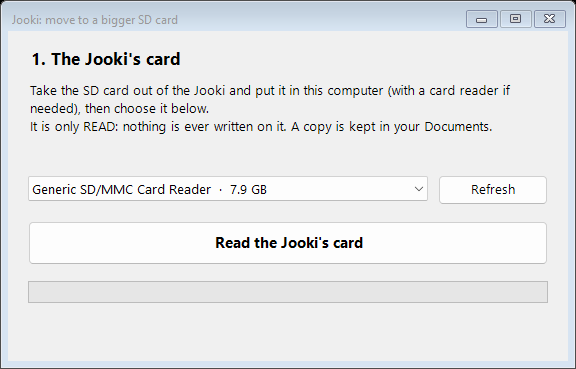
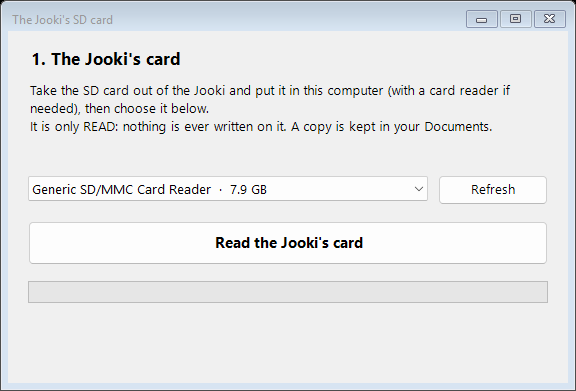
A brand-new Jooki finds its way, and the original card is described right
- README, install guide, Questions, installer page and Wi-Fi page: a brand-new (or
  second-hand) Jooki that was never on the family's Wi-Fi gets it from the Wi-Fi page, then
  installs OpenJooki; no old app, no need to open it (the reporter of #8 opened his for
  lack of this).
- The original card: the tools (Windows window, Mac page), sdcard.html, the Questions and
  docs/27 said the original program could no longer be set up from a phone. The old official
  app is no longer maintained but still works on some phones: said so now.
- The SD card tool's window is called "The Jooki's SD card" (it said "move to a bigger SD card"
  whatever the choice); docs screenshots redrawn; Mac app rebuilt.
- CHANGELOG: SD card tools (28 October 2026), with the fixes of #8 and #7.

Checked: the Mac page script parses (node --check) and shows the new text in Chromium, in
English and French, light and dark, with no page error; the Windows window drawn in English
and French, text within its frame; the card selection tests still pass; the zip holds the
current jooki_sd.py.

diff --git a/docs/wifi.html b/docs/wifi.html
@@ -4,7 +4,7 @@
 <meta charset="utf-8">
 <meta name="viewport" content="width=device-width, initial-scale=1">
 <title>OpenJooki · connect to Wi-Fi</title>
-<meta name="description" content="Moved house, new box, new password? Give your Jooki its Wi-Fi network over Bluetooth, from a phone or a computer. Nothing to install.">
+<meta name="description" content="Brand-new Jooki, moved house, new box, new password? Give your Jooki its Wi-Fi network over Bluetooth, from a phone or a computer. Nothing to install.">
 <style>
   :root{--bg:#fffbf6;--fg:#222;--muted:#888;--accent:#f26b21;--card:#fff;--line:#eee;--ok:#188a3a;--okbg:#e8f6ec;--bad:#c0392b;--badbg:#fbeaea}
   @media (prefers-color-scheme:dark){:root{--bg:#161514;--fg:#eee;--muted:#9a9a9a;--card:#201e1c;--line:#333;--okbg:#12301c;--badbg:#3a1a1a}}
@@ -54,7 +54,7 @@
 <body>
 <main>
   <h1>Connect the Jooki to Wi-Fi</h1>
-  <p class="sub">Moved house, new internet box, new Wi-Fi password? The Jooki only learnt its network from the old app. This page gives it a new one over Bluetooth, from an Android phone or a computer. Nothing to install. (Not from an iPhone: see below.)</p>
+  <p class="sub">A brand-new Jooki, a move, a new internet box, a new Wi-Fi password? The Jooki only learnt its network from the old app. This page gives it a new one over Bluetooth, from an Android phone or a computer. Nothing to install. (Not from an iPhone: see below.)</p>
 
   <div class="card bad" id="nobt" hidden>
     <b>This page cannot reach the Jooki from here.</b>

diff --git a/docs/sdcard.html b/docs/sdcard.html
@@ -67,9 +67,9 @@
     <li>Put a micro SD card of 4 GB or more in the computer, choose it, confirm, wait about ten
       minutes, then put it in the Jooki.</li>
   </ol>
-  <p>Good to know: the official app and Jooki's servers are gone, so the original program can
-    no longer be set up from a phone. To come back to OpenJooki, put the Jooki's own card back,
-    or install OpenJooki again. Details: <a href="https://github.com/Guillain-RDCDE/OpenJooki/blob/main/docs/27-original-card.md">docs/27-original-card.md</a>.</p>
+  <p>Good to know: the original program is set up only from the old official app, which is no
+    longer maintained: it still works on some phones, not on others. To come back to OpenJooki,
+    put the Jooki's own card back, or install OpenJooki again. Details: <a href="https://github.com/Guillain-RDCDE/OpenJooki/blob/main/docs/27-original-card.md">docs/27-original-card.md</a>.</p>
 
   <h2 id="bigger">More room for music: a bigger card</h2>
   <ol>

diff --git a/docs/index.html b/docs/index.html
@@ -74,7 +74,7 @@
     <a class="btn ghost" href="sdcard.html">My Jooki no longer starts: a new SD card</a>
     <p class="tiny">Side dots dark, reset does nothing: the memory card is dead. Ten minutes with a computer. Same tool for a bigger card, or to go back to the original Jooki.</p>
 
-    <a class="btn ghost" href="wifi.html">My Jooki lost its Wi-Fi: moved house, new box, new password</a>
+    <a class="btn ghost" href="wifi.html">My Jooki is not on our Wi-Fi: brand new, moved house, new box, new password</a>
     <p class="tiny">Two minutes with an <b>Android phone</b> or a <b>computer</b> (Windows, Mac, Linux), in Chrome.<br>
       <b>Not from an iPhone or iPad</b>: Apple does not let any web page use Bluetooth, and the Jooki only listens over Bluetooth when it has no Wi-Fi. Borrow an Android phone or use a computer, once.</p>
   </div>

diff --git a/tools/sdcard/jooki_sd.py b/tools/sdcard/jooki_sd.py
@@ -532,7 +532,7 @@ def main(argv=None):
 
 # ------------------------------------------------------------------ the local web page (the Mac app's window)
 PAGE = r"""<!doctype html><html><head><meta charset="utf-8"><meta name="viewport" content="width=device-width, initial-scale=1">
-<title>Jooki: a bigger SD card</title><style>
+<title>The Jooki's SD card</title><style>
 :root{--bg:#fffbf6;--fg:#222;--muted:#888;--accent:#f26b21;--card:#fff;--line:#e8e2da}
 @media (prefers-color-scheme:dark){:root{--bg:#161514;--fg:#eee;--muted:#9a9a9a;--card:#201e1c;--line:#333}}
 *{box-sizing:border-box}body{margin:0;font:17px/1.5 -apple-system,Segoe UI,Roboto,sans-serif;background:var(--bg);color:var(--fg);padding:0 20px 40px}
@@ -548,7 +548,7 @@ var TOKEN=%TOKEN%, fr=(navigator.language||'').slice(0,2)=='fr';
 var T={t0:['Your Jooki','Ton Jooki'],x0:['What do you want to do?','Que veux-tu faire ?'],
 g0:['A bigger card: more room for music','Une carte plus grande : plus de place pour la musique'],h0:['A new card: my Jooki does not start any more','Une carte neuve : mon Jooki ne démarre plus'],
 o0:['The original Jooki: back to the program it was sold with','Le Jooki d\'origine : revenir au programme d\'usine'],
-to1:['The original Jooki','Le Jooki d\'origine'],xo1:['This card holds the Jooki exactly as it was sold (its program of December 2022), without OpenJooki. Put a micro SD card (4 GB or more) in this computer, then choose it below: everything on it will be erased. Keep the Jooki\'s own card safe: it is your way back to OpenJooki and your music. Note: the official app and Jooki\'s servers are gone, so the original program can no longer be managed from a phone.','Cette carte contient le Jooki exactement tel qu\'il était vendu (son programme de décembre 2022), sans OpenJooki. Mets une carte micro SD (4 Go ou plus) dans cet ordinateur, puis choisis-la ci-dessous : tout ce qui est dessus sera effacé. Garde précieusement la carte du Jooki : c\'est ton retour vers OpenJooki et ta musique. À savoir : l\'appli officielle et les serveurs de Jooki n\'existent plus, le programme d\'origine ne peut donc plus être réglé depuis un téléphone.'],
+to1:['The original Jooki','Le Jooki d\'origine'],xo1:['This card holds the Jooki exactly as it was sold (its program of December 2022), without OpenJooki. Put a micro SD card (4 GB or more) in this computer, then choose it below: everything on it will be erased. Keep the Jooki\'s own card safe: it is your way back to OpenJooki and your music. Note: the original program is set up only from the old official app, which is no longer maintained: it still works on some phones, not on others.','Cette carte contient le Jooki exactement tel qu\'il était vendu (son programme de décembre 2022), sans OpenJooki. Mets une carte micro SD (4 Go ou plus) dans cet ordinateur, puis choisis-la ci-dessous : tout ce qui est dessus sera effacé. Garde précieusement la carte du Jooki : c\'est ton retour vers OpenJooki et ta musique. À savoir : le programme d\'origine ne se règle qu\'avec l\'ancienne appli officielle, qui n\'est plus maintenue : elle marche encore sur certains téléphones, pas sur d\'autres.'],
 go1:['Download and write the original card','Télécharger et écrire la carte d\'origine'],x3o:['Put the card in the Jooki and switch it on: it starts as it did out of the box. To come back to OpenJooki, put the Jooki\'s own card back, or install OpenJooki again from its page.','Mets la carte dans le Jooki et allume-le : il démarre comme à la sortie de sa boîte. Pour revenir à OpenJooki, remets la carte du Jooki, ou réinstalle OpenJooki depuis sa page.'],
 t1:['1. The Jooki\'s card','1. La carte du Jooki'],x1:['Take the SD card out of the Jooki and put it in this computer (with a card reader if needed), then choose it below. It is only READ: nothing is ever written on it. A copy is kept in your Documents.','Sors la carte SD du Jooki et mets-la dans cet ordinateur (avec un lecteur de cartes si besoin), puis choisis-la ci-dessous. Elle est seulement LUE : rien n\'y est jamais écrit. Une copie est gardée dans tes Documents.'],
 g1:['Read the Jooki\'s card','Lire la carte du Jooki'],t2:['2. The new, bigger card','2. La nouvelle carte, plus grande'],x2:['Take out the Jooki\'s card (keep it safe: it is your way back) and put the NEW card in, then click Refresh and choose it. Everything on the new card will be erased.','Retire la carte du Jooki (garde-la précieusement : c\'est ton retour en arrière) et mets la NOUVELLE carte, puis clique sur Actualiser et choisis-la. Tout ce qui est sur la nouvelle carte sera effacé.'],

diff --git a/CHANGELOG.md b/CHANGELOG.md
@@ -1,5 +1,29 @@
 # OpenJooki — Changelog
 
+## SD card tools (28 October 2026) — every card reader, and a brand-new Jooki
+- **Windows: the card shows up, whatever the card reader.** The tool only looked at USB card
+  readers and the ones Windows calls "SD". The readers built into many laptops (Realtek, for
+  example) go by another name, so the card was never offered ("No card found"), although
+  Windows showed it as a removable disk. Now every card Windows calls removable is offered;
+  the computer's own disk and external hard disks are still kept out. Thanks to vojtechj for
+  the report and the screenshots (issue #8).
+- **A brand-new Jooki, never on your Wi-Fi?** No need for the old app, and no need to open it:
+  the [Wi-Fi page](https://guillain-rdcde.github.io/OpenJooki/wifi.html) gives it your Wi-Fi,
+  then [install OpenJooki](guide/install.md). Said now in the README, the install guide and
+  the Questions.
+- **The original Jooki card, said right.** The tool said the original program could no longer
+  be set up from a phone. In fact the old official app is no longer maintained but still works
+  on some phones: the tool, the SD card page and the Questions now say so. The tool's window is
+  now called "The Jooki's SD card", whatever you choose.
+- **Mac (23 October): the window shows its words again.** Since 29 September its titles, texts
+  and buttons stayed empty, on every Mac (issue #7).
+- For the tinkerers: Windows puts built-in readers on a SCSI bus, so the tool now trusts the
+  disk's "Removable media" type, whatever the bus. A removable disk that `Get-Disk` does not
+  list is taken from `Win32_DiskDrive`, its exact size asked from the disk itself, and its
+  volumes locked through WMI before the write. `JOOKI_SD_TEST=cards` shows how Windows sees
+  every disk. Checked on 23 simulated disks and, on a virtual 8 GB FAT32 card, a full write of
+  the original card read back, through both paths.
+
 ## OpenJooki 2.4.7 (26 October 2026) — What the Jooki's source taught us
 - **Forgot the parent code? A gesture that works.** The old one (hold ◀ and ▶ together) could
   not be done: on a Jooki 2 they are the two ends of one knob. Now: turn the volume all the way

diff --git a/guide/questions.md b/guide/questions.md
@@ -14,8 +14,13 @@ the music has to be added again.
 **Can I go back to the original Jooki?**
 Yes: the [SD card tool](https://guillain-rdcde.github.io/OpenJooki/sdcard.html#original)
 makes a card with the Jooki exactly as it was sold, without OpenJooki. Keep the Jooki's own
-card: it is your way back. But the official app and Jooki's servers are gone, so the
-original program can no longer be set up from a phone.
+card: it is your way back. But the original program is set up only from the old official
+app, which is no longer maintained: it still works on some phones, not on others.
+
+**My Jooki is brand new (or second-hand), it has never been on our Wi-Fi.**
+No need for the old app, and no need to open it: give it your Wi-Fi from the
+[Wi-Fi page](https://guillain-rdcde.github.io/OpenJooki/wifi.html), from an Android phone or a
+computer, then [install OpenJooki](install.md) from your phone.
 
 **Can anyone outside my home see my Jooki?**
 No. No account, no cloud, no tracking.

diff --git a/README.md b/README.md
@@ -27,6 +27,7 @@ Free, made by a parent, not affiliated with Muuselabs / Jooki.
 | Your situation | Go here |
 |---|---|
 | My Jooki works, but the app doesn't any more | **[Install OpenJooki](guide/install.md)** · 15 min, from your phone |
+| My Jooki is brand new, it has never been on our Wi-Fi | **[Give it your Wi-Fi](https://guillain-rdcde.github.io/OpenJooki/wifi.html)**, then **[install OpenJooki](guide/install.md)** · no need to open it |
 | I have OpenJooki: playlists, tokens, bedtime, Bluetooth speaker… | **[Use it](guide/use.md)** |
 | My NFC stickers should pause like real tokens | **[A sticker becomes a Jooki token](guide/use.md#tokens)** · Android phone, or an NFC app |
 | I want to read a story myself | **[Jookistory: a story read by you](guide/use.md#a-story-read-by-you)** |

diff --git a/docs/27-original-card.md b/docs/27-original-card.md
@@ -6,8 +6,9 @@ without anyone's music or settings. Made by the SD card tool, third choice:
 *The original Jooki: back to the program it was sold with*
 ([sdcard.html](https://guillain-rdcde.github.io/OpenJooki/sdcard.html)).
 
-Good to know before using it: the official app and Jooki's servers are gone,
-so the original program can no longer be set up from a phone. The way back to
+Good to know before using it: the original program is set up only from the old
+official app, which is no longer maintained: it still works on some phones, not
+on others (Muuselabs' servers are gone). The way back to
 OpenJooki is the Jooki's own card (keep it), or a fresh OpenJooki install.
 
 ## What is on it

diff --git a/guide/install.md b/guide/install.md
@@ -4,6 +4,10 @@ For a **Jooki 2** that works, but whose app no longer does.
 
 **You need:** the Jooki switched on and **plugged in**, and a **phone on the same Wi-Fi**.
 
+**Brand new Jooki, never on your Wi-Fi?** Give it your Wi-Fi first, from the
+[Wi-Fi page](https://guillain-rdcde.github.io/OpenJooki/wifi.html) (Android phone or computer,
+two minutes). No need for the old app, and no need to open the Jooki.
+
 1. **Find your Jooki's address.** Open your internet box's app or page, look at the
    connected devices, and find the one whose name starts with **jooki**. Its address
    looks like `192.168.1.19`.
